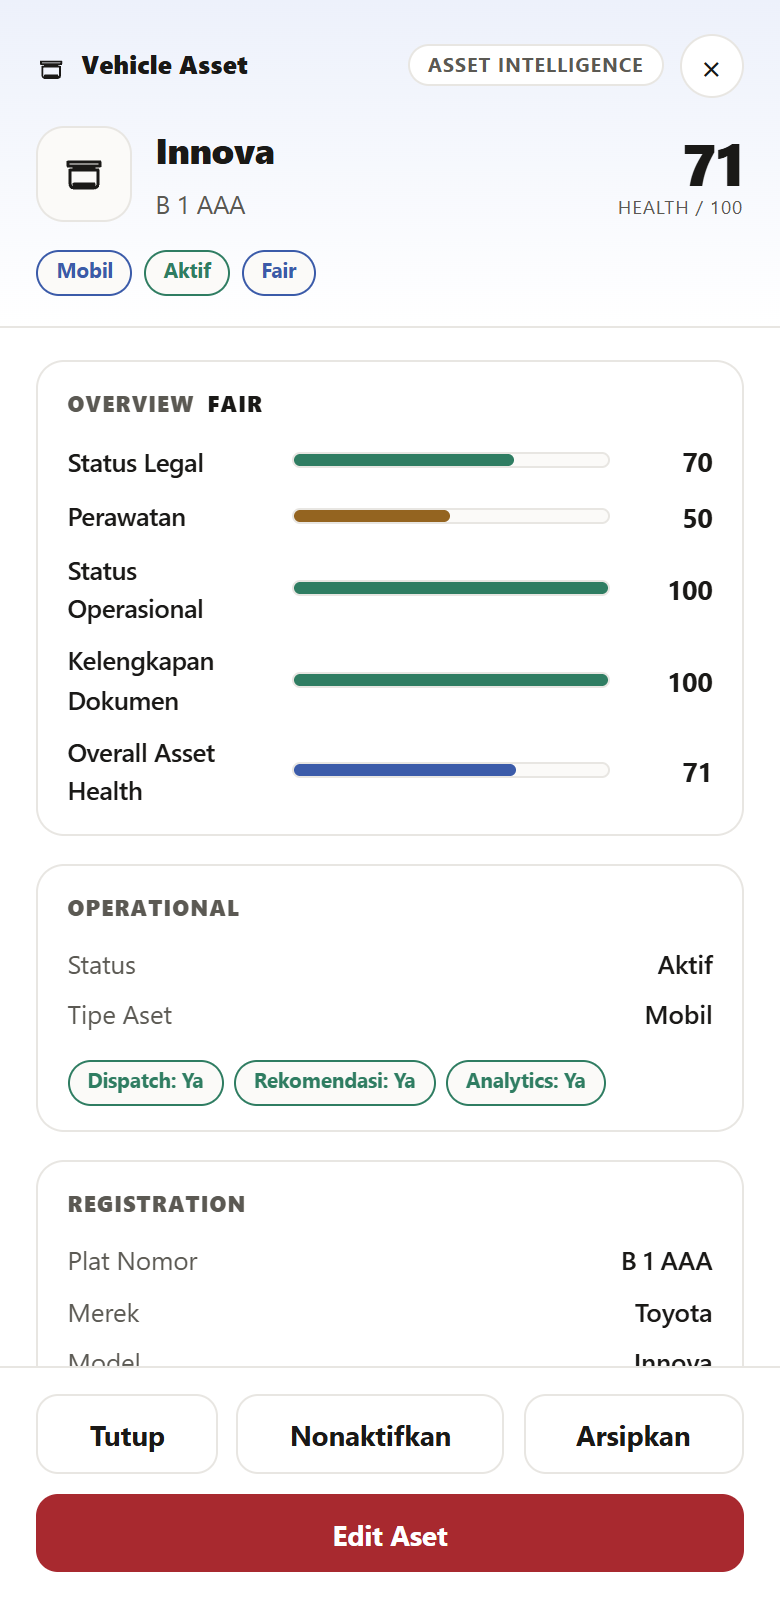
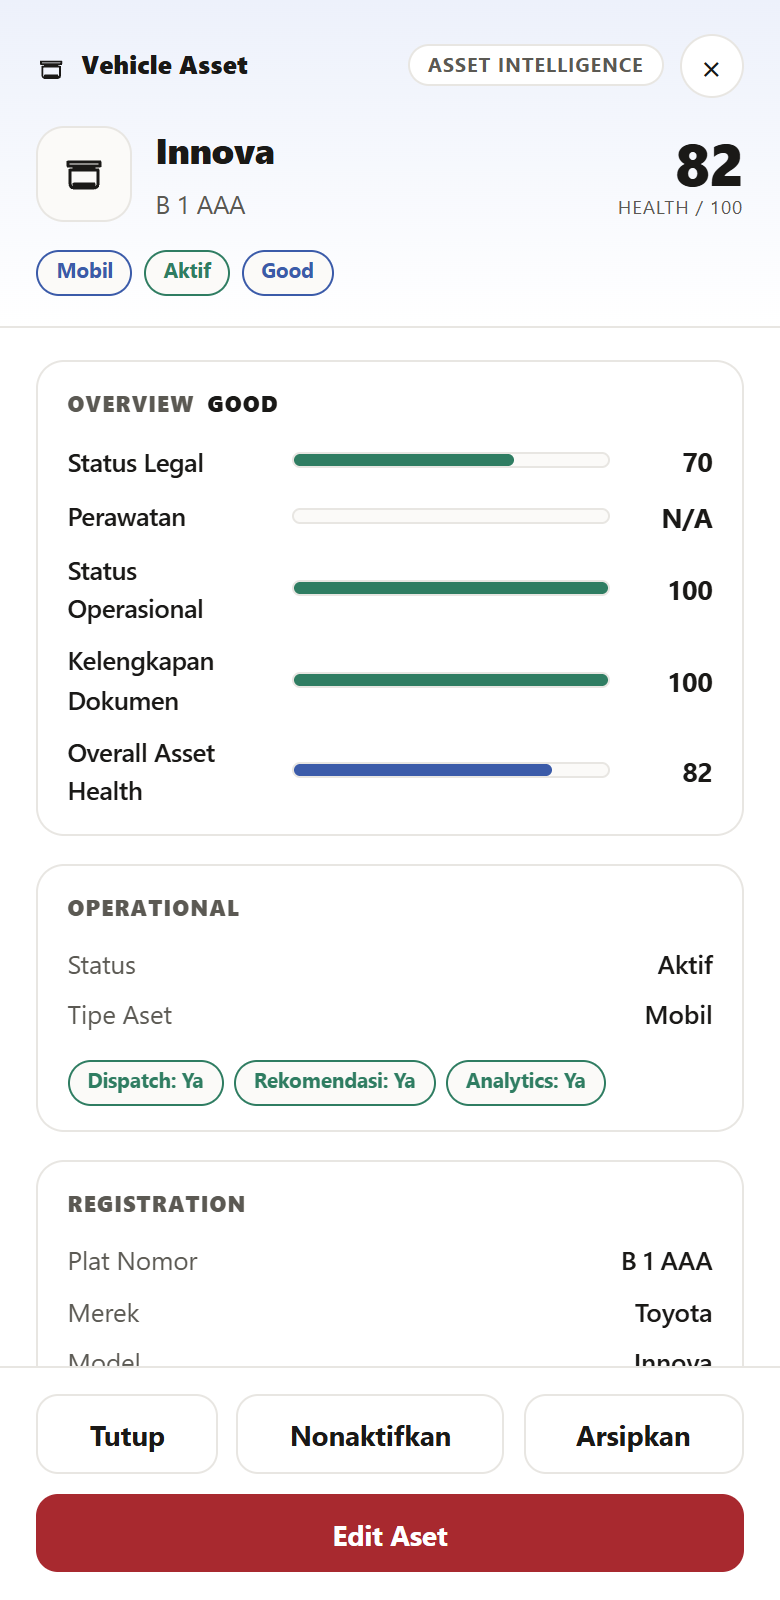
fix(vehicle-management): stabilize inventory rendering and runtime pipeline

diff --git a/js/app.js b/js/app.js
@@ -96,7 +96,7 @@ import { openDriverWellnessDrawer } from './components/driver-wellness-drawer.js
 // timeline) and renders the Fleet Dashboard + Apple-style detail drawer. Reuses
 // Unified Scoring + the Dispatch Policy Engine (no dispatch/recommendation change).
 import { validateMaintenanceRecord, normalizeMaintenanceRecord } from './services/maintenance-service.js';
-import { computeFleetAssetModel, findVehicleAsset } from './services/vehicle-asset-service.js';
+import { computeFleetAssetModel, findVehicleAsset, searchFilterVehicles } from './services/vehicle-asset-service.js';
 import { injectFleetDashboardStyles, renderFleetDashboard } from './components/fleet-dashboard.js';
 import { renderIcon, vehicleTypeIconName } from './components/icon-system.js';
 import { openVehicleDetailDrawer } from './components/vehicle-detail-drawer.js';
@@ -4531,14 +4531,26 @@ function renderV2AdminVehicles() {
 
   const allVehicles = getVehicles();
 
-  // Feature 10/11/12 — executive Fleet Dashboard (non-archived inventory).
-  injectFleetDashboardStyles();
-  const dashHost = document.getElementById('v2FleetDashboard');
-  const dashModel = computeFleetAssetModel({ vehicles: allVehicles });
-  if (dashHost) dashHost.innerHTML = renderFleetDashboard(dashModel);
+  // v1.18.1 — production hardening. Normalizing the fleet model can throw on a
+  // single malformed store record (e.g. a maintenanceRecords RTDB hole). Before,
+  // that aborted the whole function AFTER the overview "Total Kendaraan" count
+  // had rendered, leaving the Fleet Dashboard + inventory silently blank. Now any
+  // failure renders a VISIBLE, diagnosable error state instead of a blank list,
+  // and never takes down the surrounding workspace.
+  try {
+    // Feature 10/11/12 — executive Fleet Dashboard (non-archived inventory).
+    injectFleetDashboardStyles();
+    const dashHost = document.getElementById('v2FleetDashboard');
+    const dashModel = computeFleetAssetModel({ vehicles: allVehicles });
+    if (dashHost) dashHost.innerHTML = renderFleetDashboard(dashModel);
 
-  // Full normalized model (incl. archived) — drives the cards + detail drawer.
-  _fleetAssetModel = computeFleetAssetModel({ vehicles: allVehicles, includeArchived: true });
+    // Full normalized model (incl. archived) — drives the cards + detail drawer.
+    _fleetAssetModel = computeFleetAssetModel({ vehicles: allVehicles, includeArchived: true });
+  } catch (err) {
+    console.error('[VehicleInventory] render failed', err);
+    list.innerHTML = '<div class="v2-admin-empty">Gagal memuat inventaris kendaraan. Data armada mungkin tidak valid. Muat ulang halaman; jika berlanjut, hubungi admin sistem.</div>';
+    return;
+  }
 
   // Feature 13 — search & filter (type / status / fuel / transmission / query).
   let assets = _fleetAssetModel.vehicles.filter(v => {
@@ -4561,9 +4573,33 @@ function renderV2AdminVehicles() {
   }
 
   const lastByVehicle = _latestAssignmentByVehicle();
-  list.innerHTML = assets
-    .map(a => buildVehicleCard(a, lastByVehicle.get(String(a.name || '').trim())))
-    .join('');
+
+  // v1.18.1 — per-card resilience + runtime instrumentation. The previous code
+  // built every card in a single .map().join(); if ONE asset made buildVehicleCard
+  // throw, the whole expression threw and the grid was left silently blank while
+  // the dashboard + toolbar above (already rendered) survived — the exact reported
+  // symptom. Now each card is built in isolation: a failure is logged WITH the
+  // offending asset and skipped, so every well-formed vehicle still renders.
+  const cards = [];
+  let cardFailures = 0;
+  for (const a of assets) {
+    try {
+      cards.push(buildVehicleCard(a, lastByVehicle.get(String(a.name || '').trim())));
+    } catch (err) {
+      cardFailures++;
+      console.error('[VehicleInventory] buildVehicleCard threw for asset id=%s', a && a.id, { asset: a, error: err });
+    }
+  }
+  console.log('[VehicleInventory] raw=%d normalized=%d afterFilter=%d cardsBuilt=%d failures=%d container=%o',
+    allVehicles.length,
+    (_fleetAssetModel && _fleetAssetModel.vehicles ? _fleetAssetModel.vehicles.length : -1),
+    assets.length, cards.length, cardFailures, list);
+
+  if (!cards.length) {
+    list.innerHTML = '<div class="v2-admin-empty">Inventaris kendaraan gagal dirender — lihat console (Filter [VehicleInventory]) untuk asset yang bermasalah.</div>';
+    return;
+  }
+  list.innerHTML = cards.join('');
 
   // Lifecycle actions now live in the drawer footer (cards are pure navigation
   // objects). These read-only handlers mirror the prior inline-button behavior;

diff --git a/js/services/maintenance-service.js b/js/services/maintenance-service.js
@@ -258,7 +258,12 @@ export function computeMaintenanceTimeline(records, now) {
  * @returns {Object} Summary statistics
  */
 export function deriveMaintenanceSummary(records) {
-  if (!Array.isArray(records) || records.length === 0) {
+  // v1.18.1 — null-element safety. RTDB arrays with deleted indices arrive as
+  // holes (e.g. [null, {...}]); filtering null/non-object elements here prevents
+  // the downstream `str(r.status)` reads from throwing on a null record (which
+  // aborted normalizeVehicleAsset → blank Fleet Dashboard + inventory).
+  records = (Array.isArray(records) ? records : []).filter(r => r && typeof r === 'object');
+  if (records.length === 0) {
     return {
       lastDate: null,
       lastCategory: null,
@@ -342,7 +347,10 @@ export function deriveMaintenanceSummary(records) {
  * @returns {{score: number, label: string, tone: string, components: Object}}
  */
 export function computeMaintenanceHealth(records, now) {
-  if (!Array.isArray(records) || records.length === 0) {
+  // v1.18.1 — null-element safety (see deriveMaintenanceSummary): drop RTDB
+  // array holes so the `str(r.status)` filters below never deref a null record.
+  records = (Array.isArray(records) ? records : []).filter(r => r && typeof r === 'object');
+  if (records.length === 0) {
     return {
       score: 50,
       label: 'Unknown',

diff --git a/js/services/vehicle-asset-service.js b/js/services/vehicle-asset-service.js
@@ -130,7 +130,13 @@ export function computeVehicleHealth(parts) {
   const legal = legalScores.length ? clampScore(legalScores.reduce((a, b) => a + b, 0) / legalScores.length) : null;
 
   const docScore = clampScore(documents ? documents.completeness : 0);
-  const maintScore = maintenance && maintenance.score != null ? clampScore(maintenance.score) : null;
+  // v1.18.1 — a vehicle with NO maintenance history must EXCLUDE maintenance from
+  // the weighting (re-normalized over the present components), never count it as a
+  // neutral/zero score. computeMaintenanceHealth signals "no data" with the
+  // 'Unknown' label (default score 50); treat that as absent so a fully-legal,
+  // active, fully-documented vehicle is not dragged down by missing service data.
+  const hasMaint = maintenance && maintenance.score != null && maintenance.label !== 'Unknown';
+  const maintScore = hasMaint ? clampScore(maintenance.score) : null;
 
   const comps = [
     { v: operational, w: HEALTH_WEIGHTS.operational },

diff --git a/index.html b/index.html
@@ -21,9 +21,9 @@
   <link rel="preconnect" href="https://fonts.googleapis.com" />
   <link rel="preconnect" href="https://fonts.gstatic.com" crossorigin />
   <link href="https://fonts.googleapis.com/css2?family=Inter:wght@400;500;600;700;800&family=Archivo:wght@400;500;600;700;800;900&family=Manrope:wght@400;500;600;700;800&family=JetBrains+Mono:wght@400;500;600&display=swap" rel="stylesheet" />
-  <link rel="stylesheet" href="style.css?v=1.18.1" />
+  <link rel="stylesheet" href="style.css?v=1.18.3" />
   <link rel="stylesheet" href="platform.css?v=2.1.0" />
-  <link rel="stylesheet" href="petty-cash.css?v=1.18.1" />
+  <link rel="stylesheet" href="petty-cash.css?v=1.18.3" />
   <link rel="stylesheet" href="vendor/flatpickr.min.css" />
 
   <!-- Startup gating: hides V1 layout until V2 shell is ready.
@@ -1155,6 +1155,6 @@
 
 <script src="https://cdn.jsdelivr.net/npm/chart.js@4.4.0/dist/chart.umd.min.js"></script>
 <script src="vendor/flatpickr.min.js"></script>
-<script type="module" src="js/app.js?v=1.18.1"></script>
+<script type="module" src="js/app.js?v=1.18.3"></script>
 </body>
 </html>

diff --git a/js/config.js b/js/config.js
@@ -1,7 +1,7 @@
 'use strict';
 
 export const APP_NAME = 'Bidang Sarana dan Prasarana Operations Platform';
-export const APP_VERSION = '1.18.1';
+export const APP_VERSION = '1.18.3';
 export const RELEASE_NAME = 'Fleet Maintenance Intelligence';
 
 /**

diff --git a/service-worker.js b/service-worker.js
@@ -31,7 +31,7 @@
    no drift between deployed and installed.
    ============================================================ */
 
-const SW_VERSION  = '1.18.1';   // stamped from config.js — do not edit by hand
+const SW_VERSION  = '1.18.3';   // stamped from config.js — do not edit by hand
 const CACHE_NAME  = `sarpras-cache-v${SW_VERSION}`;
 const OFFLINE_URL = '/offline.html';
 const VERSION_URL = '/version.json';